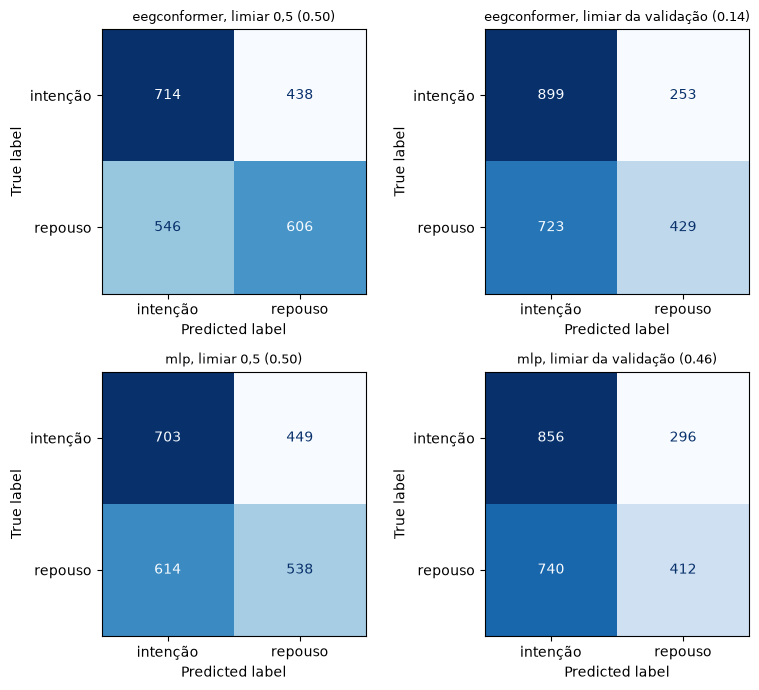
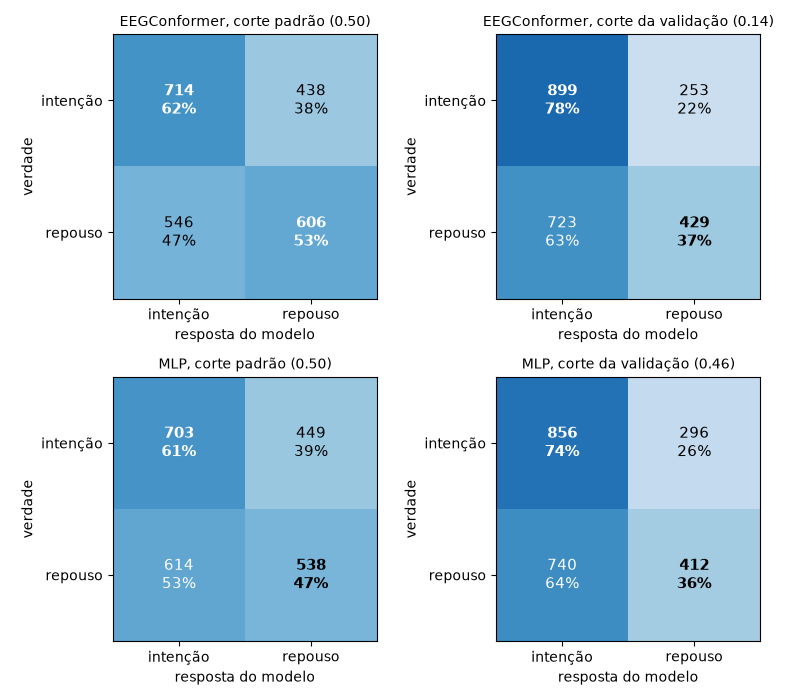
att

diff --git a/README.md b/README.md
@@ -223,7 +223,7 @@ flowchart LR
     D --> VA["validação<br/>A06–A07"]
     D --> TE["teste<br/>A08–A09"]
     TR --> M["EEGConformer<br/>× MLP"]
-    VA -->|"escolhe época<br/>e limiar"| M
+    VA -->|"escolhe época<br/>e corte"| M
     M --> TE
 ```
 
@@ -259,13 +259,23 @@ Quanto mais longe da diagonal tracejada (chute), melhor. Área: **0,60** × 0,56
 | **EEGConformer** | 78,0% | 37,2% | **57,6%** |
 | MLP | 74,3% | 35,8% | 55,0% |
 
-### Resultado 3 — Os modelos respondem "intenção" quase sempre
+### Resultado 3 — O corte escolhido na validação faz o modelo pender para "intenção"
 
-<img src="figuras/matriz_confusao.png" width="520" alt="Matriz de confusão dos dois modelos no teste">
+O modelo dá uma nota de 0 a 1 para a chance de ser intenção. Acima do **corte**, ele responde
+"intenção"; abaixo, "repouso". Quanto menor o corte, mais "intenção" ele responde.
 
-Linha = verdade, coluna = resposta. À direita, com o limiar escolhido na validação, a maioria dos
-repousos vira "intenção" (723 de 1.152 no EEGConformer): **o limiar que servia para A06–A07 não
-serve para A08–A09.**
+<img src="figuras/matriz_confusao.png" width="520" alt="Matriz de confusão dos dois modelos no teste, com corte padrão e corte da validação">
+
+Cada quadrado separa as 1.152 tentativas de cada classe pelo que o modelo respondeu; **os acertos
+estão na diagonal, em negrito**.
+
+| EEGConformer no teste | intenções certas | repousos certos | acerto total |
+|---|---|---|---|
+| corte padrão (0,50) | 62% | 53% | 57,3% |
+| corte da validação (0,14) | **78%** | **37%** | 57,6% |
+
+- **Baixar o corte só troca um erro pelo outro:** acha mais intenções, mas confunde mais repousos, e o acerto total não muda.
+- **O corte da validação não serve no teste:** o 0,14 era o corte que mais acertava as duas classes em A06–A07; em A08–A09, faz o modelo dizer "intenção" em 70% das vezes. **Cada pessoa precisaria do seu corte.**
 
 ### Resposta
 
